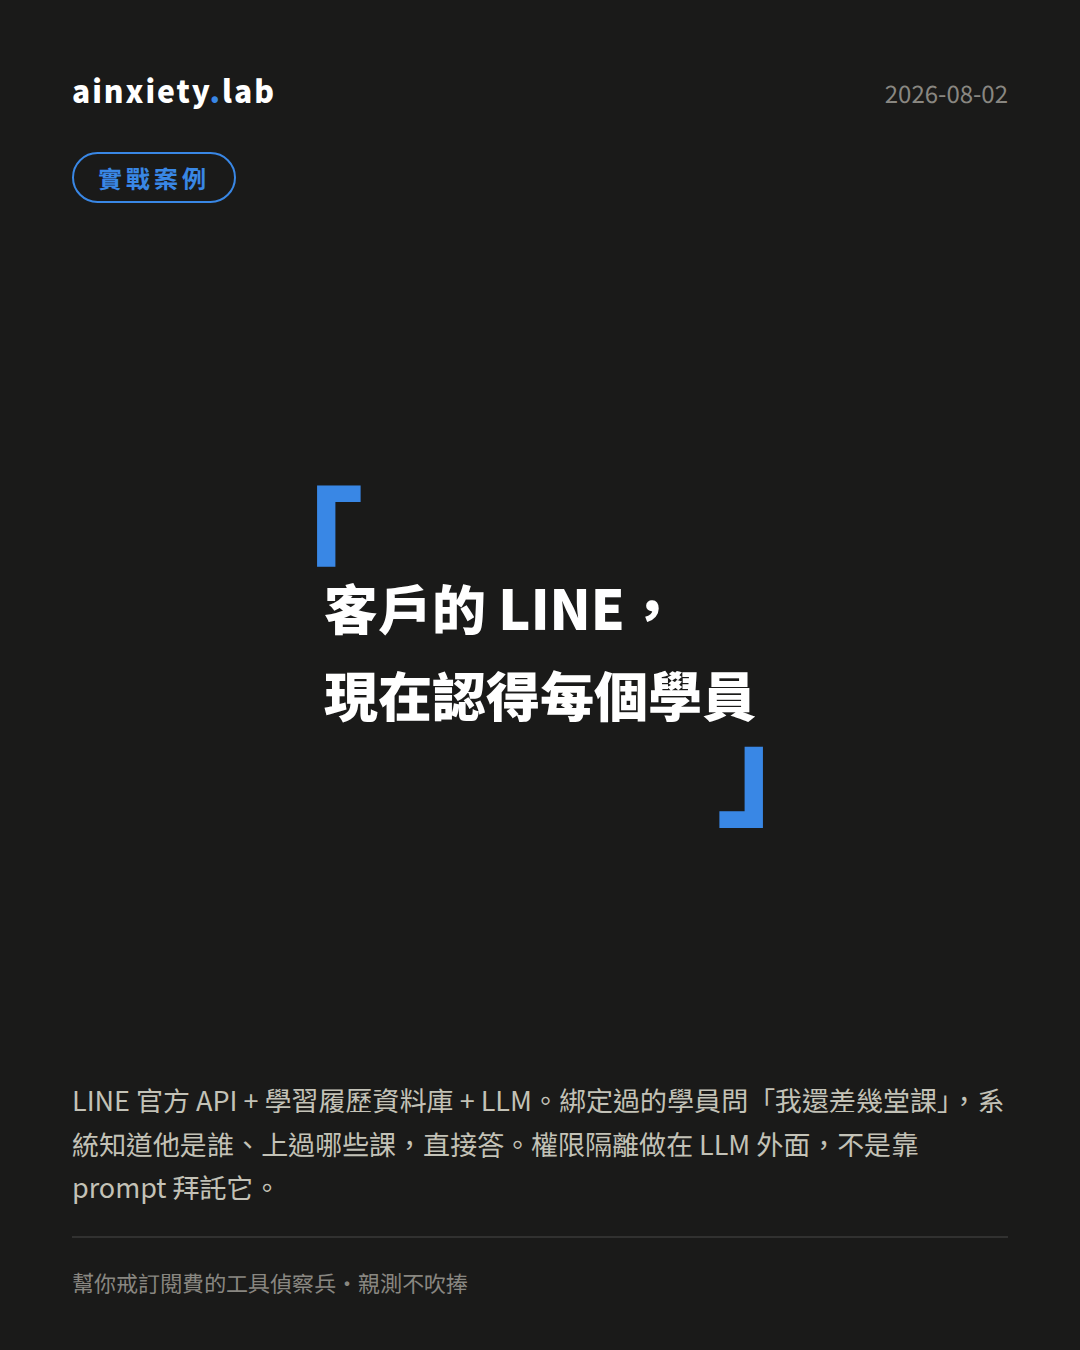
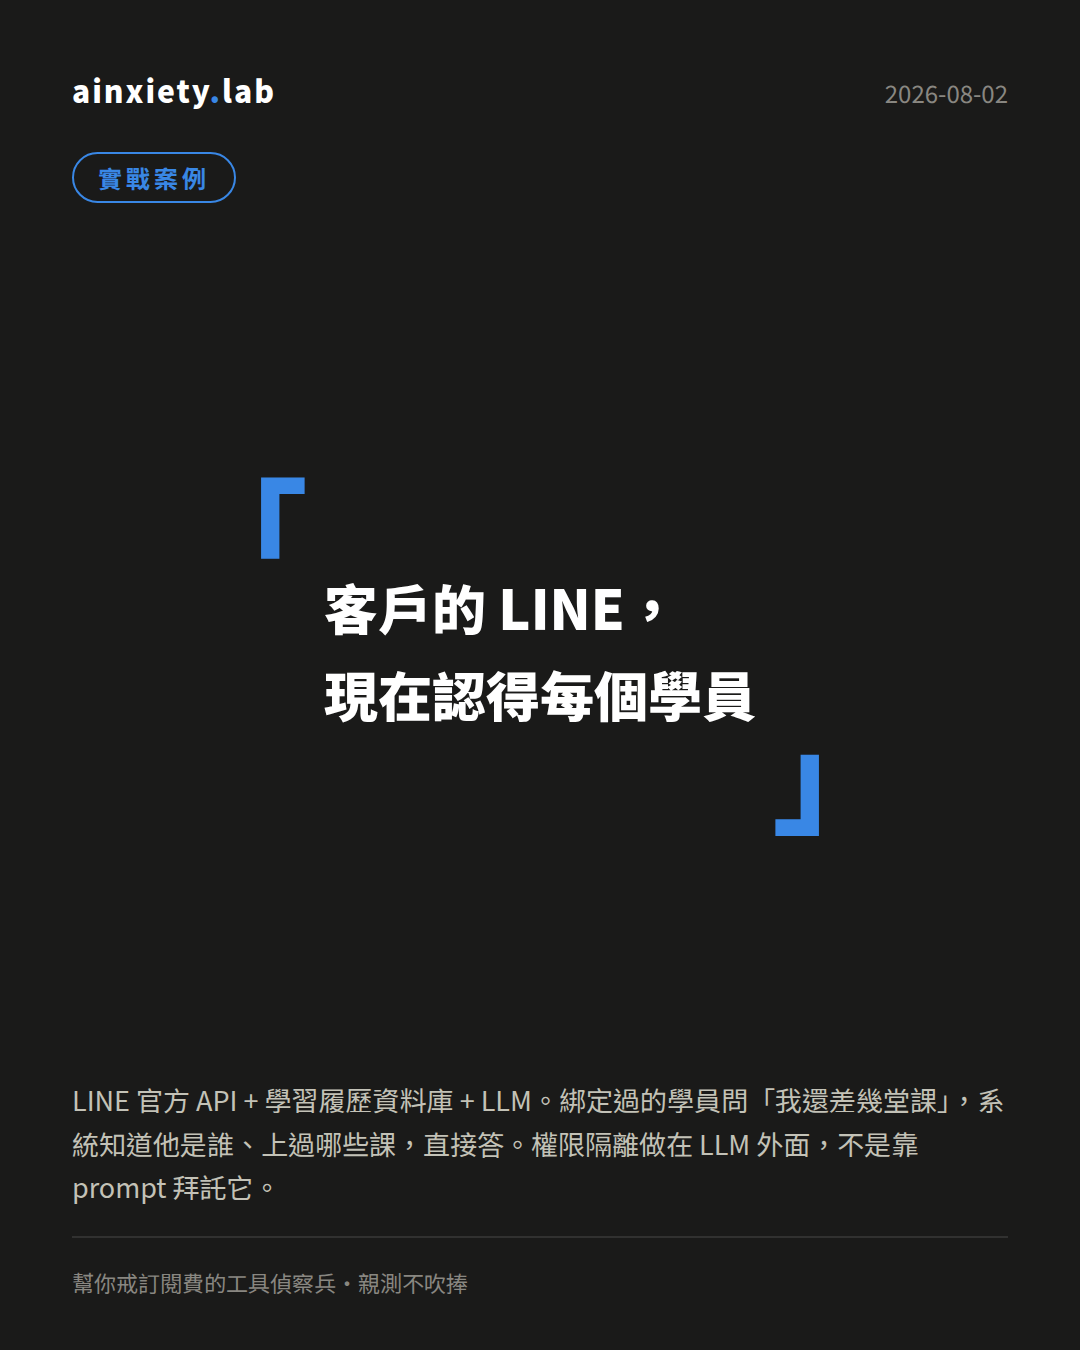
Quote card: push brackets further out to the sides
Claude-Session: https://claude.ai/code/session_01W9sZf2u1jK8Fge2EqVvNHW

Changed region(s): [[0.2444, 0.3422, 0.3361, 0.4356], [0.6722, 0.5289, 0.7639, 0.6222]]

diff --git a/tools/make_card.py b/tools/make_card.py
@@ -183,11 +183,11 @@ def tpl_quote(d):
       <div class="label">{esc(d.get('label') or '今日 AI 短評')}</div>
       <div style="flex:1;display:flex;align-items:center;justify-content:center">
         <div style="position:relative;display:inline-block;padding:30px 34px;max-width:440px">
-          <div style="position:absolute;top:-14px;left:-10px;font-size:64px;font-weight:900;
+          <div style="position:absolute;top:-18px;left:-38px;font-size:64px;font-weight:900;
                       color:var(--accent);line-height:1">「</div>
           <div style="font-size:27px;font-weight:900;line-height:1.6;white-space:pre-line;
                       text-wrap:balance">{esc(d.get('quote'))}</div>
-          <div style="position:absolute;bottom:-14px;right:-10px;font-size:64px;font-weight:900;
+          <div style="position:absolute;bottom:-18px;right:-38px;font-size:64px;font-weight:900;
                       color:var(--accent);line-height:1">」</div>
         </div>
       </div>
